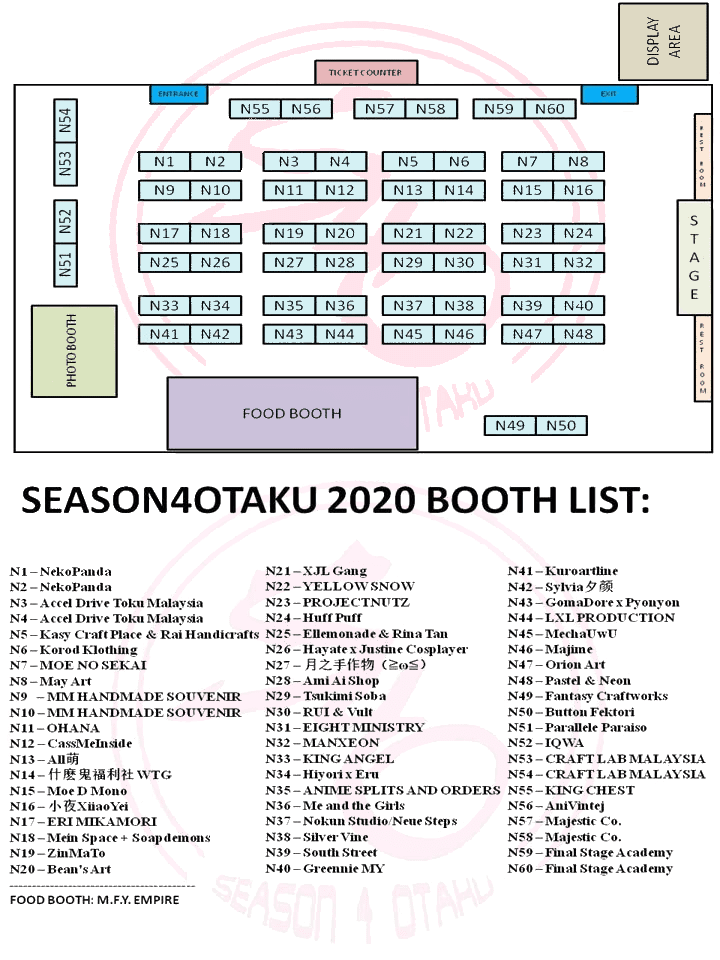
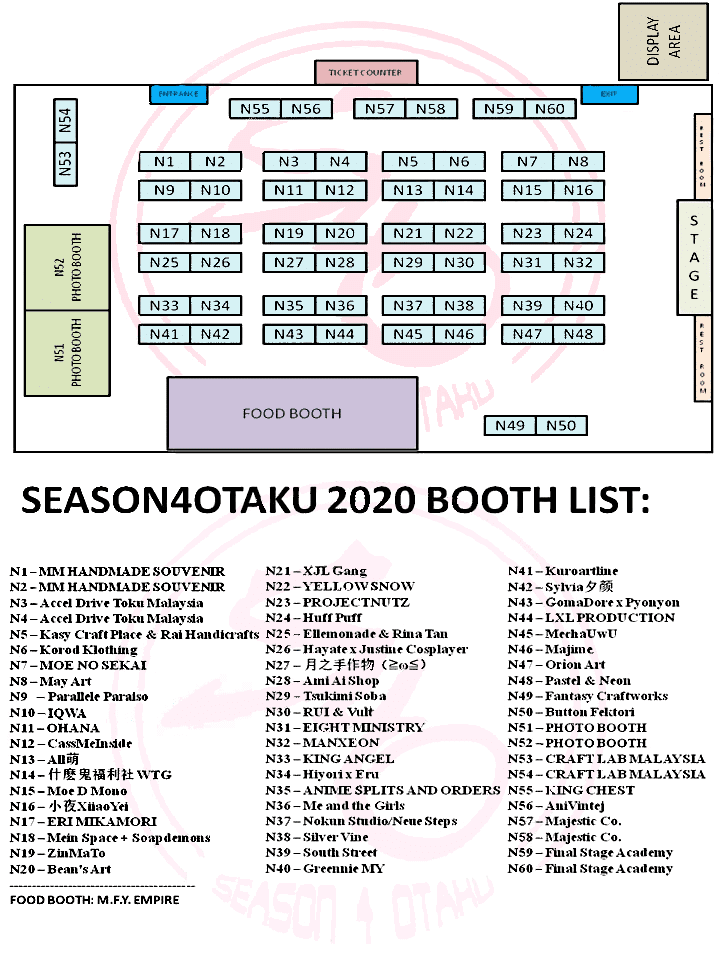
update S4O2020 (official floorplan updated);

diff --git a/2020/S4O2020.html b/2020/S4O2020.html
@@ -333,25 +333,25 @@
 <input type='checkbox' id='favBut' style='display: none;' /><label class='toolBut toggle_checkbox' for='favBut'>Highlight mode</label>
 <button class='toolBut' id='linkBut' onclick='copyText2clip(window.location + location.hash)'>Copy Link</button></div><img src='./S4O2020/S4O2020.png' style='' onerror="this.src = './S4O2020/S4O2020.jpg'">
 <div id='coverbox' onclick='coverbox_click()' style='position: fixed; width: 100%; height: 100%; background-color: black; opacity: 0; top: 0px; left: 0px;'></div>
-<div class='booth' id='N1' onclick='link_click(this)'><div class='desc' style='left:194px;top:174px;'><h2>N1 NekoPanda</h2><ul>
-<li><a href='http://5d2creative.deviantart.com' class='dar'></a><a href='http://fb.me/nekogojoart' class='fbk'></a></li></ul></div><div class='area' style='left:15px;top:571px;width:250px;height:16px;'>N1 NEKOPANDA</div><div class='box' style='left:147px;top:160px;width:45px;height:12px;'></div>
-</div><div class='booth' id='N2' onclick='link_click(this)'><div class='desc' style='left:244px;top:174px;'><h2>N2 NekoPanda</h2><ul>
-<li><a href='http://5d2creative.deviantart.com' class='dar'></a><a href='http://fb.me/nekogojoart' class='fbk'></a></li></ul></div><div class='area' style='left:15px;top:587px;width:250px;height:15px;'>N2 NEKOPANDA</div><div class='box' style='left:197px;top:160px;width:45px;height:12px;'></div>
+<div class='booth' id='N1' onclick='link_click(this)'><div class='desc' style='left:194px;top:174px;'><h2>N1 MM HANDMADE SOUVENIR</h2><ul>
+<li><a href='http://lelong.com.my/store/mmhandmade' class='llo'></a></li></ul></div><div class='area' style='left:15px;top:571px;width:250px;height:16px;'>N1 MM HANDMADE SOUVENIR</div><div class='box' style='left:147px;top:160px;width:45px;height:12px;'></div>
+</div><div class='booth' id='N2' onclick='link_click(this)'><div class='desc' style='left:244px;top:174px;'><h2>N2 MM HANDMADE SOUVENIR</h2><ul>
+<li><a href='http://lelong.com.my/store/mmhandmade' class='llo'></a></li></ul></div><div class='area' style='left:15px;top:587px;width:250px;height:15px;'>N2 MM HANDMADE SOUVENIR</div><div class='box' style='left:197px;top:160px;width:45px;height:12px;'></div>
 </div><div class='booth' id='N3' onclick='link_click(this)'><div class='desc' style='left:319px;top:174px;'><h2>N3 Accel Drive Toku Malaysia</h2><ul>
 <li></li><li><a href='https://milvagox.miraheze.org/wiki/Accel_DriveTokuMalaysia'>Accel_DriveTokuMalaysia</a></li><li><span class='chevron'>&gt;</span><a href='http://fb.me/accelshelpershopandservices' class='fbk'></a></li></ul></div><div class='area' style='left:15px;top:602px;width:250px;height:16px;'>N3 ACCEL DRIVE TOKU MALAYSIA</div><div class='box' style='left:272px;top:160px;width:45px;height:12px;'></div>
 </div><div class='booth' id='N4' onclick='link_click(this)'><div class='desc' style='left:369px;top:174px;'><h2>N4 Accel Drive Toku Malaysia</h2><ul>
 <li></li><li><a href='https://milvagox.miraheze.org/wiki/Accel_DriveTokuMalaysia'>Accel_DriveTokuMalaysia</a></li><li><span class='chevron'>&gt;</span><a href='http://fb.me/accelshelpershopandservices' class='fbk'></a></li></ul></div><div class='area' style='left:15px;top:618px;width:250px;height:16px;'>N4 ACCEL DRIVE TOKU MALAYSIA</div><div class='box' style='left:322px;top:160px;width:45px;height:12px;'></div>
 </div><div class='booth' id='N5' onclick='link_click(this)'><div class='desc' style='left:438px;top:174px;'><h2>N5 Kasy Craft Place &amp; Rai Handicrafts</h2><ul>
-<li><a href='http://instagram.com/kasytan83' class='ins'></a></li><li></li><li><a href='https://milvagox.miraheze.org/wiki/Rai Handicrafts'>Rai Handicrafts</a></li><li><span class='chevron'>&gt;</span><a href='http://instagram.com/raihandicrafts' class='ins'></a></li></ul></div><div class='area' style='left:15px;top:634px;width:250px;height:15px;'>N5 KASY CRAFT PLACE &AMP; RAI HANDICRAFTS</div><div class='box' style='left:391px;top:160px;width:45px;height:12px;'></div>
+<li><a href='http://instagram.com/kasytan83' class='ins'></a></li><li></li><li><a href='https://milvagox.miraheze.org/wiki/Rai Handicrafts'>Rai Handicrafts</a></li><li><span class='chevron'>&gt;</span><a href='http://instagram.com/raihandicrafts' class='ins'></a></li><li><p><blockquote class="twitter-tweet" data-dnt="true"><p lang="en" dir="ltr">View our event catalogue here: <a href="https://t.co/paDKNhFaCf">https://t.co/paDKNhFaCf</a><a href="https://twitter.com/hashtag/season4otaku?src=hash&amp;ref_src=twsrc%5Etfw">#season4otaku</a> <a href="https://twitter.com/hashtag/season4otaku2020?src=hash&amp;ref_src=twsrc%5Etfw">#season4otaku2020</a> <a href="https://twitter.com/hashtag/pompompokemon?src=hash&amp;ref_src=twsrc%5Etfw">#pompompokemon</a><a href="https://twitter.com/hashtag/pokemonmalaysia?src=hash&amp;ref_src=twsrc%5Etfw">#pokemonmalaysia</a> <a href="https://twitter.com/hashtag/pokemongomalaysia?src=hash&amp;ref_src=twsrc%5Etfw">#pokemongomalaysia</a><a href="https://twitter.com/hashtag/pogomy?src=hash&amp;ref_src=twsrc%5Etfw">#pogomy</a><a href="https://twitter.com/hashtag/pokemongomy?src=hash&amp;ref_src=twsrc%5Etfw">#pokemongomy</a><a href="https://twitter.com/hashtag/pogomalaysia?src=hash&amp;ref_src=twsrc%5Etfw">#pogomalaysia</a><a href="https://twitter.com/hashtag/pokemoncraft?src=hash&amp;ref_src=twsrc%5Etfw">#pokemoncraft</a> <a href="https://t.co/exY0GONGg1">pic.twitter.com/exY0GONGg1</a></p>&mdash; Rai Handicrafts @ Season4Otaku2020 (@RaiHandicrafts) <a href="https://twitter.com/RaiHandicrafts/status/1222139746555551744?ref_src=twsrc%5Etfw">January 28, 2020</a></blockquote></p></li><li></li></ul></div><div class='area' style='left:15px;top:634px;width:250px;height:15px;'>N5 KASY CRAFT PLACE &AMP; RAI HANDICRAFTS</div><div class='box' style='left:391px;top:160px;width:45px;height:12px;'></div>
 </div><div class='booth' id='N6' onclick='link_click(this)'><div class='desc' style='left:488px;top:174px;'><h2>N6 Korod Klothing</h2><ul>
 <li></li><li><a href='https://milvagox.miraheze.org/wiki/Korod Klothing'>Korod Klothing</a></li><li><span class='chevron'>&gt;</span><a href='http://instagram.com/korodklothing' class='ins'></a><a href='http://fb.me/korodklothing' class='fbk'></a></li><li></li><li><a href='https://milvagox.miraheze.org/wiki/Kupeh rodriguez'>Kupeh rodriguez</a></li><li><span class='chevron'>&gt;</span><a href='http://twitter.com/kupeh_rod' class='twt'></a><a href='http://instagram.com/kupeh_rod' class='ins'></a></li></ul></div><div class='area' style='left:15px;top:649px;width:250px;height:16px;'>N6 KOROD KLOTHING</div><div class='box' style='left:441px;top:160px;width:45px;height:12px;'></div>
 </div><div class='booth' id='N7' onclick='link_click(this)'><div class='desc' style='left:557px;top:174px;'><h2>N7 MOE NO SEKAI</h2><a href='http://duckduckgo.com/?q=MOE%20NO%20SEKAI'>Search for MOE NO SEKAI</a></div><div class='area' style='left:15px;top:665px;width:250px;height:16px;'>N7 MOE NO SEKAI</div><div class='box' style='left:510px;top:160px;width:45px;height:12px;'></div>
 </div><div class='booth' id='N8' onclick='link_click(this)'><div class='desc' style='left:607px;top:174px;'><h2>N8 May Art</h2><ul>
 <li><a href='http://fb.me/MayArtPixel' class='fbk'></a></li></ul></div><div class='area' style='left:15px;top:681px;width:250px;height:15px;'>N8 MAY ART</div><div class='box' style='left:560px;top:160px;width:45px;height:12px;'></div>
-</div><div class='booth' id='N9' onclick='link_click(this)'><div class='desc' style='left:194px;top:203px;'><h2>N9 MM HANDMADE SOUVENIR</h2><ul>
-<li><a href='http://lelong.com.my/store/mmhandmade' class='llo'></a></li></ul></div><div class='area' style='left:15px;top:696px;width:250px;height:16px;'>N9 MM HANDMADE SOUVENIR</div><div class='box' style='left:147px;top:189px;width:45px;height:12px;'></div>
-</div><div class='booth' id='N10' onclick='link_click(this)'><div class='desc' style='left:244px;top:203px;'><h2>N10 MM HANDMADE SOUVENIR</h2><ul>
-<li><a href='http://lelong.com.my/store/mmhandmade' class='llo'></a></li></ul></div><div class='area' style='left:15px;top:712px;width:250px;height:16px;'>N10 MM HANDMADE SOUVENIR</div><div class='box' style='left:197px;top:189px;width:45px;height:12px;'></div>
+</div><div class='booth' id='N9' onclick='link_click(this)'><div class='desc' style='left:194px;top:203px;'><h2>N9 Parallele Paraiso</h2><ul>
+<li><a href='http://instagram.com/parallele.paraiso' class='ins'></a><a href='http://paralleleparaisocos.blogspot.com' class='bsp'></a><a href='http://fb.me/parallelparadisecos' class='fbk'></a><a href='http://youtube.com/channel/UC_GWj2TWBnoSqv7aY7omSdg' class='ytb'></a><a href='http://parallelparadisecos.com' class='parallelparadisecos'></a></li></ul></div><div class='area' style='left:15px;top:696px;width:250px;height:16px;'>N9 PARALLELE PARAISO</div><div class='box' style='left:147px;top:189px;width:45px;height:12px;'></div>
+</div><div class='booth' id='N10' onclick='link_click(this)'><div class='desc' style='left:244px;top:203px;'><h2>N10 IQWA</h2><ul>
+<li><a href='http://instagram.com/iqwa_san' class='ins'></a></li></ul></div><div class='area' style='left:15px;top:712px;width:250px;height:16px;'>N10 IQWA</div><div class='box' style='left:197px;top:189px;width:45px;height:12px;'></div>
 </div><div class='booth' id='N11' onclick='link_click(this)'><div class='desc' style='left:319px;top:203px;'><h2>N11 OHANA</h2><a href='http://duckduckgo.com/?q=OHANA'>Search for OHANA</a></div><div class='area' style='left:15px;top:728px;width:250px;height:15px;'>N11 OHANA</div><div class='box' style='left:272px;top:189px;width:45px;height:12px;'></div>
 </div><div class='booth' id='N12' onclick='link_click(this)'><div class='desc' style='left:369px;top:203px;'><h2>N12 CassMeInside</h2><ul>
 <li><a href='http://instagram.com/cassmeinside' class='ins'></a><a href='http://fb.me/CassMeInside' class='fbk'></a></li></ul></div><div class='area' style='left:15px;top:743px;width:250px;height:16px;'>N12 CASSMEINSIDE</div><div class='box' style='left:322px;top:189px;width:45px;height:12px;'></div>
@@ -423,10 +423,8 @@
 <li><a href='http://fb.me/FANTASYCRAFTWORKS' class='fbk'></a></li></ul></div><div class='area' style='left:514px;top:696px;width:205px;height:16px;'>N49 FANTASY CRAFTWORKS</div><div class='box' style='left:494px;top:425px;width:45px;height:12px;'></div>
 </div><div class='booth' id='N50' onclick='link_click(this)'><div class='desc' style='left:591px;top:439px;'><h2>N50 Button Fektori</h2><ul>
 <li><a href='http://instagram.com/buttonfektori' class='ins'></a><a href='http://fb.me/buttonfektori' class='fbk'></a></li></ul></div><div class='area' style='left:514px;top:712px;width:205px;height:15px;'>N50 BUTTON FEKTORI</div><div class='box' style='left:544px;top:425px;width:45px;height:12px;'></div>
-</div><div class='booth' id='N51' onclick='link_click(this)'><div class='desc' style='left:79px;top:291px;'><h2>N51 Parallele Paraiso</h2><ul>
-<li><a href='http://instagram.com/parallele.paraiso' class='ins'></a><a href='http://paralleleparaisocos.blogspot.com' class='bsp'></a><a href='http://fb.me/parallelparadisecos' class='fbk'></a><a href='http://youtube.com/channel/UC_GWj2TWBnoSqv7aY7omSdg' class='ytb'></a><a href='http://parallelparadisecos.com' class='parallelparadisecos'></a></li></ul></div><div class='area' style='left:514px;top:727px;width:205px;height:16px;'>N51 PARALLELE PARAISO</div><div class='box' style='left:63px;top:251px;width:14px;height:38px;'></div>
-</div><div class='booth' id='N52' onclick='link_click(this)'><div class='desc' style='left:79px;top:248px;'><h2>N52 IQWA</h2><ul>
-<li><a href='http://instagram.com/iqwa_san' class='ins'></a></li></ul></div><div class='area' style='left:514px;top:743px;width:205px;height:16px;'>N52 IQWA</div><div class='box' style='left:63px;top:208px;width:14px;height:38px;'></div>
+</div><div class='booth' id='N51' onclick='link_click(this)'><div class='desc' style='left:114px;top:399px;'><h2>N51 PHOTO BOOTH</h2><a href='http://duckduckgo.com/?q=PHOTO%20BOOTH'>Search for PHOTO BOOTH</a></div><div class='area' style='left:514px;top:727px;width:205px;height:16px;'>N51 PHOTO BOOTH</div><div class='box' style='left:32px;top:317px;width:80px;height:80px;'></div>
+</div><div class='booth' id='N52' onclick='link_click(this)'><div class='desc' style='left:114px;top:314px;'><h2>N52 PHOTO BOOTH</h2><a href='http://duckduckgo.com/?q=PHOTO%20BOOTH'>Search for PHOTO BOOTH</a></div><div class='area' style='left:514px;top:743px;width:205px;height:16px;'>N52 PHOTO BOOTH</div><div class='box' style='left:32px;top:232px;width:80px;height:80px;'></div>
 </div><div class='booth' id='N53' onclick='link_click(this)'><div class='desc' style='left:79px;top:190px;'><h2>N53 CRAFT LAB MALAYSIA</h2><ul>
 <li><a href='http://twitter.com/craftlabmy' class='twt'></a><a href='http://instagram.com/craftlabmy' class='ins'></a><a href='http://fb.me/CraftLabMy' class='fbk'></a></li><li><a href='http://craftlab.com.my'>craftlab.com.my</a></li><li>
 </li></ul></div><div class='area' style='left:514px;top:759px;width:205px;height:15px;'>N53 CRAFT LAB MALAYSIA</div><div class='box' style='left:63px;top:150px;width:14px;height:38px;'></div>

diff --git a/index.html b/index.html
@@ -62,7 +62,7 @@
 <a href='https://milvagox.miraheze.org/wiki/Main_Page'>Booths Wiki page</a>
 <h1>2020</h1><ul>
  <li>on 23 Feb only!: <progress max='70' value='62' ></progress> <a href='2020/hanamimkt2020.html'>hanamimkt2020</a></li>
- <li>01 Feb &amp; 02 Feb: <progress max='60' value='38' ></progress> <a href='2020/S4O2020.html'>S4O2020</a></li>
+ <li>01 Feb &amp; 02 Feb: <progress max='60' value='47' ></progress> <a href='2020/S4O2020.html'>S4O2020</a></li>
  <li>on 04 Jan only!: <progress max='62' value='43' ></progress> <a href='2020/arata2020.html'>arata2020</a></li>
 </ul>
 <h1>2019</h1><ul>
@@ -144,4 +144,4 @@
 <p>Please provide information and contact <a href='mailto:milvagox@pm.me'>here</a>.</p>
 </div>
 </div></body></html>
-<!--Written by MilvagoX. Updated: 2020-01-28 17:38:11 UTC-->
+<!--Written by MilvagoX. Updated: 2020-01-29 12:56:23 UTC-->
